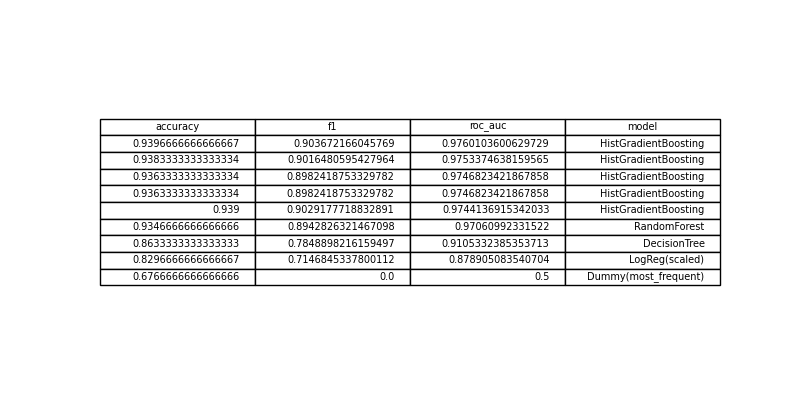
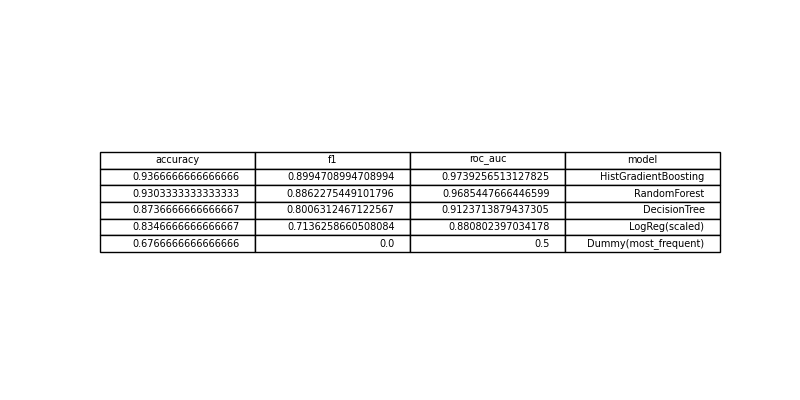
HW06

Changed region(s): [[0.125, 0.27, 0.9062, 0.72], [0.1562, 0.51, 0.3125, 0.54]]

diff --git a/homeworks/HW06/report.md b/homeworks/HW06/report.md
@@ -12,21 +12,22 @@
 
 ## 2. Protocol
 
-- Разбиение: train/test (75%/25%, `random_state`)
-- Подбор: CV на train (сколько фолдов, что оптимизировали)
-- Метрики: accuracy, F1, ROC-AUC (и почему эти метрики уместны именно здесь)
+- Разбиение: train/test (75%/25%, `random_state` = 42)
+- Подбор:  Кросс-валидация на тренировочной выборке с использованием StratifiedKFold (5 фолдов). Стратификация сохраняет распределение классов в каждом фолде, что критично для несбалансированных данных.
+- Метрики: accuracy, F1, ROC-AUC. Выбор метрик обусловлен тем, что целевая переменная несбалансирована (67%/33%), и нужны показатели, устойчивые к этому.
 
 ## 3. Models
 
-Опишите, какие модели сравнивали и какие гиперпараметры подбирали.
 
-Минимум:
+- DummyClassifier(strategy='most_frequent'): Baseline, всегда предсказывает самый частый класс. Позволяет оценить, дает ли "умная" модель реальный выигрыш.
 
-- DummyClassifier (baseline)
-- LogisticRegression (baseline из S05)
-- DecisionTreeClassifier (контроль сложности: `max_depth` + `min_samples_leaf` или `ccp_alpha`)
-- RandomForestClassifier
-- HistGradientBoosting
+- LogisticRegression(max_iter=5000, random_state=42): Линейная базовая модель. Используется для сравнения с более сложными алгоритмами.
+
+- DecisionTreeClassifier(random_state=42): Подбираемые гиперпараметры: max_depth и min_samples_leaf. Эти параметры контролируют сложность и борются с переобучением.
+
+- RandomForestClassifier(random_state=42, n_jobs=-1): Подбираемые гиперпараметры: n_estimators, max_depth, min_samples_leaf. Ансамбль деревьев, устойчивый к переобучению.
+
+- HistGradientBoostingClassifier(random_state=42): Подбираемые гиперпараметры: max_iter, max_depth, learning_rate. Мощный градиентный бустинг на гистограммах, часто показывает наилучшее качество.
 
 
 ## 4. Results
@@ -47,4 +48,8 @@
 
 ## 6. Conclusion
 
-3-6 коротких тезисов: что вы поняли про деревья/ансамбли и про честный ML-протокол.
+- Протокол — это основа. Фиксированный random_state, стратификация при CV и использование отдельной тестовой выборки — обязательные условия для получения воспроизводимых, надежных и честных результатов сравнения моделей.
+
+- Ансамбли эффективны. Случайный лес и особенно градиентный бустинг (HistGradientBoosting) значительно превосходят по качеству одно дерево и линейные модели на данном наборе данных, демонстрируя силу комбинирования множества слабых моделей.
+
+- Контроль сложности важен. Даже простая настройка max_depth и min_samples_leaf позволила Decision Tree избежать серьезного переобучения и показать достойный результат.
